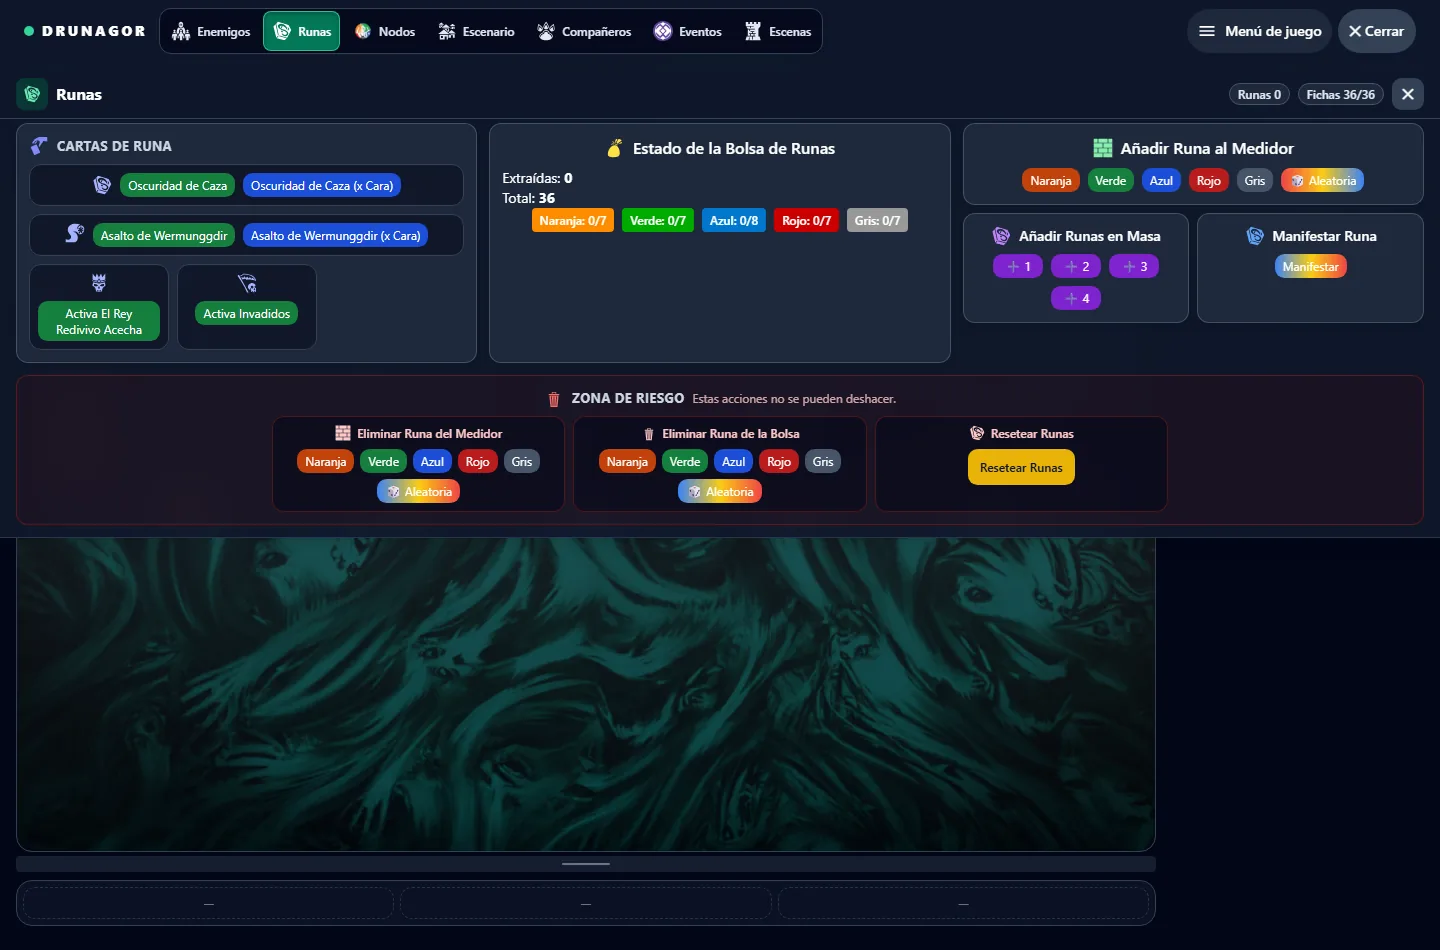
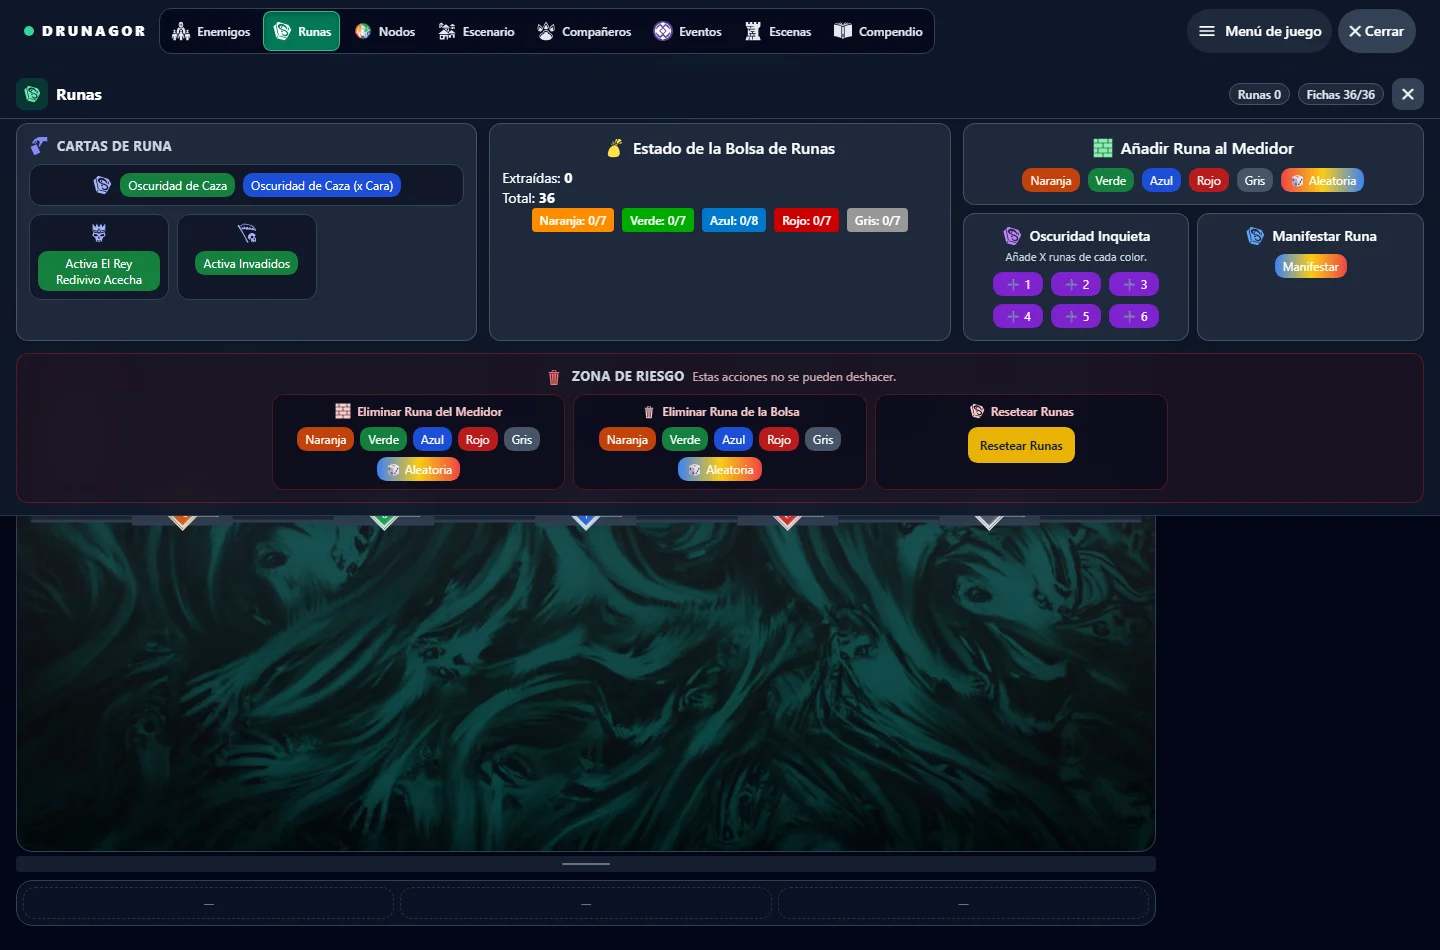
Renombrar Oscuridad Inquieta y ampliar sus opciones

Changed region(s): [[0.0, 0.2137, 1.0, 0.58], [0.6875, 0.2442, 0.8125, 0.3663], [0.5625, 0.0, 0.6562, 0.0611]]

diff --git a/src/components/TopMenu.jsx b/src/components/TopMenu.jsx
@@ -1365,15 +1365,19 @@ const TopMenu = ({
                 <div className="grid grid-cols-2 gap-2">
                 {/* Añadir oscuridad en cascada */}
                 <div className="track-surface-raised flex-1 p-3 shadow-md">
-                  <div className="flex items-center gap-2 mb-2 justify-center">
+                  <div className="flex items-center gap-2 mb-1 justify-center">
                     <GiRuneStone className="text-purple-400 text-xl" />
                     <span className="text-sm font-semibold text-center">{t.oscuridadCascada}</span>
                   </div>
+                  <p className="mb-2 text-center text-[11px] leading-tight text-slate-300">
+                    {t.oscuridadCascadaHint}
+                  </p>
                   <div className="flex flex-wrap gap-2 justify-center">
-                    {[1,2,3,4].map(num => (
+                    {[1,2,3,4,5,6].map(num => (
                       <button
                         key={num}
                         onClick={() => addRunesCascade(num)}
+                        aria-label={(t.oscuridadCascadaAdd || 'Añadir {n} runas de cada color').replace('{n}', num)}
                         className="bg-purple-700 hover:bg-purple-600 text-white text-xs px-3 py-1 rounded-full"
                       >
                         ➕ {num}

diff --git a/tests/e2e/runas-escenario.spec.js b/tests/e2e/runas-escenario.spec.js
@@ -27,6 +27,20 @@ test.describe('Menús de runas y escenario', () => {
     await expect(addButton).toHaveCSS('background-color', 'rgb(21, 128, 61)');
   });
 
+  test('runas: Oscuridad Inquieta añade de cada color y llega a +6', async ({ page }) => {
+    await page.getByRole('button', { name: 'Runas', exact: true }).first().click();
+    const panel = page.locator('#track-menu-runes');
+
+    await expect(panel.getByText('Oscuridad Inquieta')).toBeVisible();
+    await expect(panel.getByText('Añade X runas de cada color.')).toBeVisible();
+    for (const num of [1, 2, 3, 4, 5, 6]) {
+      await expect(panel.getByRole('button', { name: `Añadir ${num} runas de cada color` })).toBeVisible();
+    }
+
+    await panel.getByRole('button', { name: 'Añadir 6 runas de cada color' }).click();
+    await expect(panel.getByText(/Extraídas:\s*30/)).toBeVisible();
+  });
+
   test('nodos: menú propio con contador y pilas', async ({ page }) => {
     await page.getByRole('button', { name: 'Nodos', exact: true }).first().click();
     const panel = page.locator('#track-menu-nodes');

diff --git a/docs/REVISION-ARQUITECTURA.md b/docs/REVISION-ARQUITECTURA.md
@@ -6327,6 +6327,23 @@ Unit       268 tests
 E2E        169/169
 ```
 
+### 374.ª tanda — Oscuridad Inquieta en el menú de runas
+
+| Cambio | Detalle | Archivos |
+|---|---|---|
+| **Nombre** | «Añadir Runas en Masa» pasa a llamarse «Oscuridad Inquieta», con la aclaración «Añade X runas de cada color» | `TopMenu`, `i18n` |
+| **Opciones** | La acción admite de 1 a 6 runas de cada color; si la bolsa no tiene suficientes fichas de un color, añade las disponibles | `GameContext`, `TopMenu` |
+| **Accesibilidad** | Cada botón expone un nombre accesible del tipo «Añadir N runas de cada color» | `TopMenu` |
+| **Tutorial** | Sección de runas y capturas ES/EN actualizadas con el nuevo nombre, la aclaración y los seis botones | `TUTORIAL.md`, `TUTORIAL.en.md`, assets |
+| **Pruebas** | Nueva prueba E2E de nombre, aclaración, botones +1 a +6 y alta de 30 fichas | `runas-escenario.spec.js` |
+
+**Medición**
+
+```text
+Unit       268 tests
+E2E        170/170
+```
+
 ### Pendiente / pospuesto
 
 - **Enemigos (paso 3)**: cerrado (chips de color/categoría y contador en el selector manual).

diff --git a/README.md b/README.md
@@ -20,7 +20,8 @@ partidas se guardan en el navegador y se pueden exportar como JSON.
 - **Enemigos**: alta aleatoria por color, alta manual con buscador y filtros de
   color y categoría, bolsa de colores y jefes con inmunidades.
 - **Runas**: cartas de runa (oscuridad, asalto, rey redivivo, huésped, invadidos),
-  estado de la bolsa, manifestar, fichas y zona de riesgo con confirmaciones.
+  estado de la bolsa, manifestar, fichas, Oscuridad Inquieta (+1 a +6 por color) y zona
+  de riesgo con confirmaciones.
 - **Nodos y áreas**: pilas de runas, nodos de niebla, barricadas, puntos de
   aparición, llaves rúnicas y rescate.
 - **Escenario**: monstruo de escenario y cartas de incursión y defensa.
@@ -177,7 +178,7 @@ Suite esperada antes de cada entrega:
 ```text
 lint      0 errores / 0 avisos
 unit      268 tests
-e2e       169 tests
+e2e       170 tests
 build     OK
 ```
 

diff --git a/docs/TUTORIAL.md b/docs/TUTORIAL.md
@@ -444,7 +444,7 @@ El menú se divide en:
 
 1. **Cartas de runa**.
 2. **Estado de la bolsa**.
-3. **Añadir al medidor / manifestar / runas en masa**.
+3. **Añadir al medidor / manifestar / Oscuridad Inquieta**.
 4. **Zona de riesgo**.
 
 #### Cartas de runa
@@ -469,9 +469,9 @@ Cada carta puede añadirse por cara A o B si existe. La app evita duplicados inc
 
 Puedes añadir una ficha de un color concreto o una ficha aleatoria.
 
-#### Añadir runas en masa
+#### Oscuridad Inquieta
 
-Añade 1, 2, 3 o 4 runas al medidor de una vez.
+Añade X runas de cada color al medidor de una vez. Puedes elegir entre 1 y 6; si un color no tiene suficientes fichas en la bolsa, se añaden las disponibles.
 
 #### Manifestar
 

diff --git a/docs/TUTORIAL.en.md b/docs/TUTORIAL.en.md
@@ -440,7 +440,7 @@ The menu has:
 
 1. **Rune cards**.
 2. **Bag status**.
-3. **Add to track / manifest / bulk runes**.
+3. **Add to track / manifest / Restless Darkness**.
 4. **Risk zone**.
 
 #### Rune cards
@@ -465,9 +465,9 @@ Each card can be added by face A or B when available. The app prevents incompati
 
 Add a tile of a specific color or a random tile.
 
-#### Add runes in bulk
+#### Restless Darkness
 
-Add 1, 2, 3 or 4 runes to the track at once.
+Add X runes of each color to the track at once. You can choose from 1 to 6; if a color does not have enough tiles in the bag, the available ones are added.
 
 #### Manifest
 
